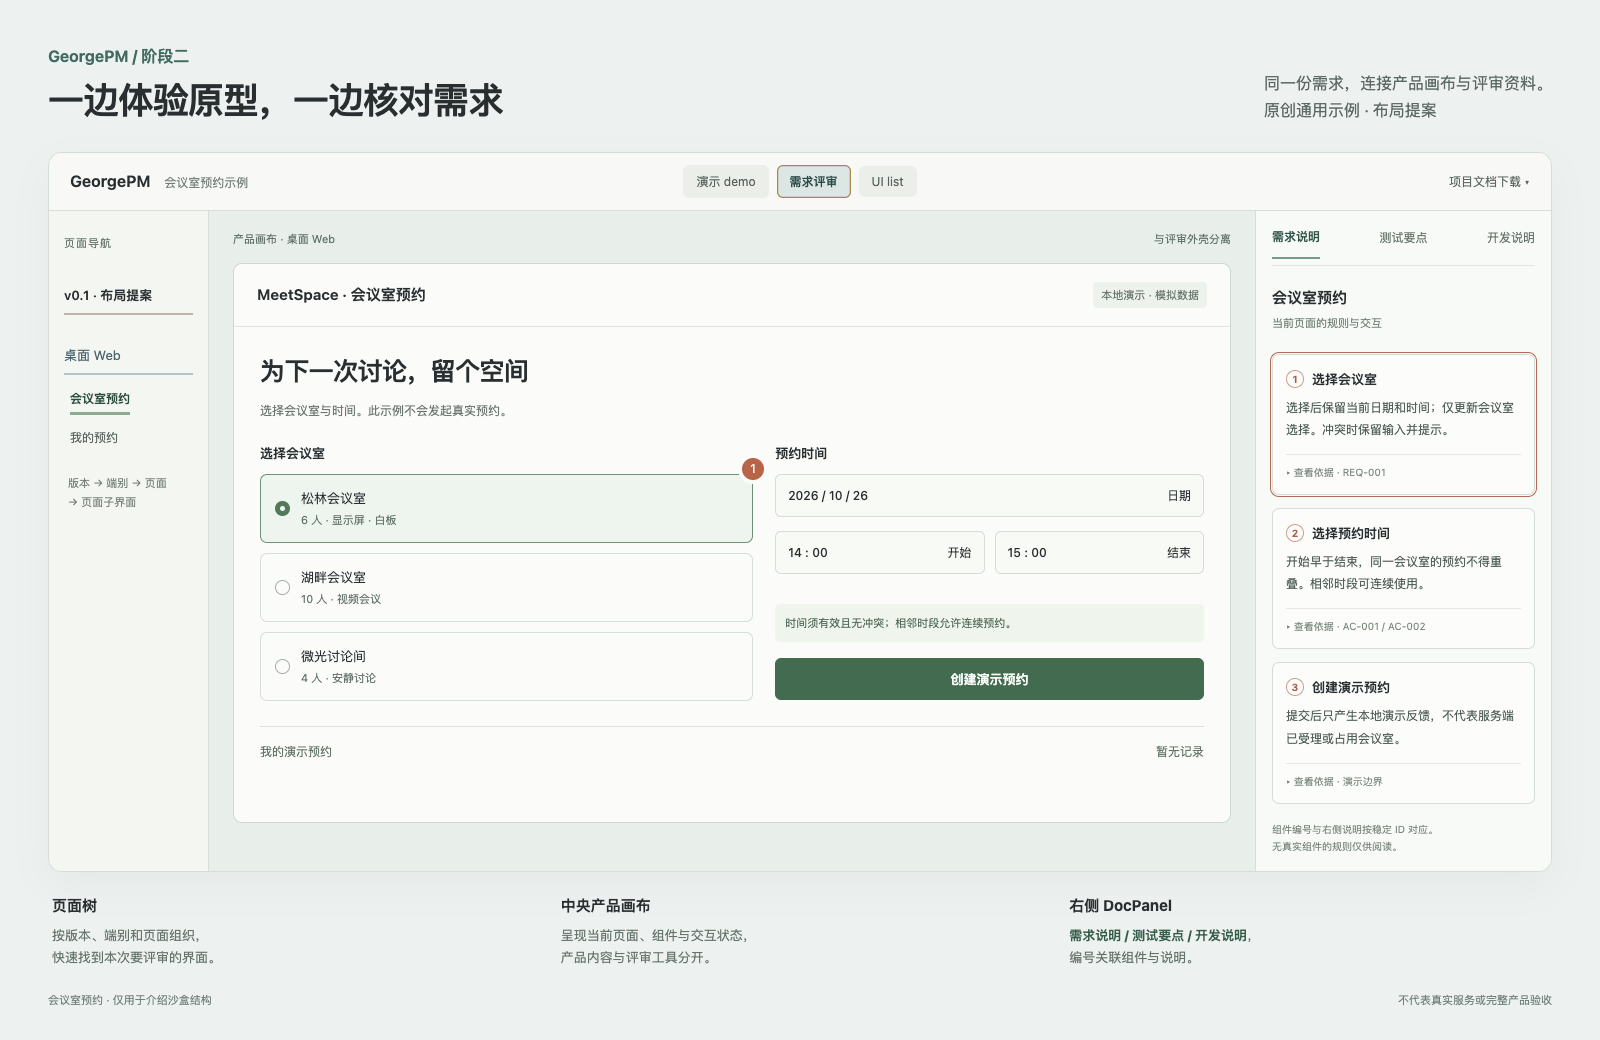
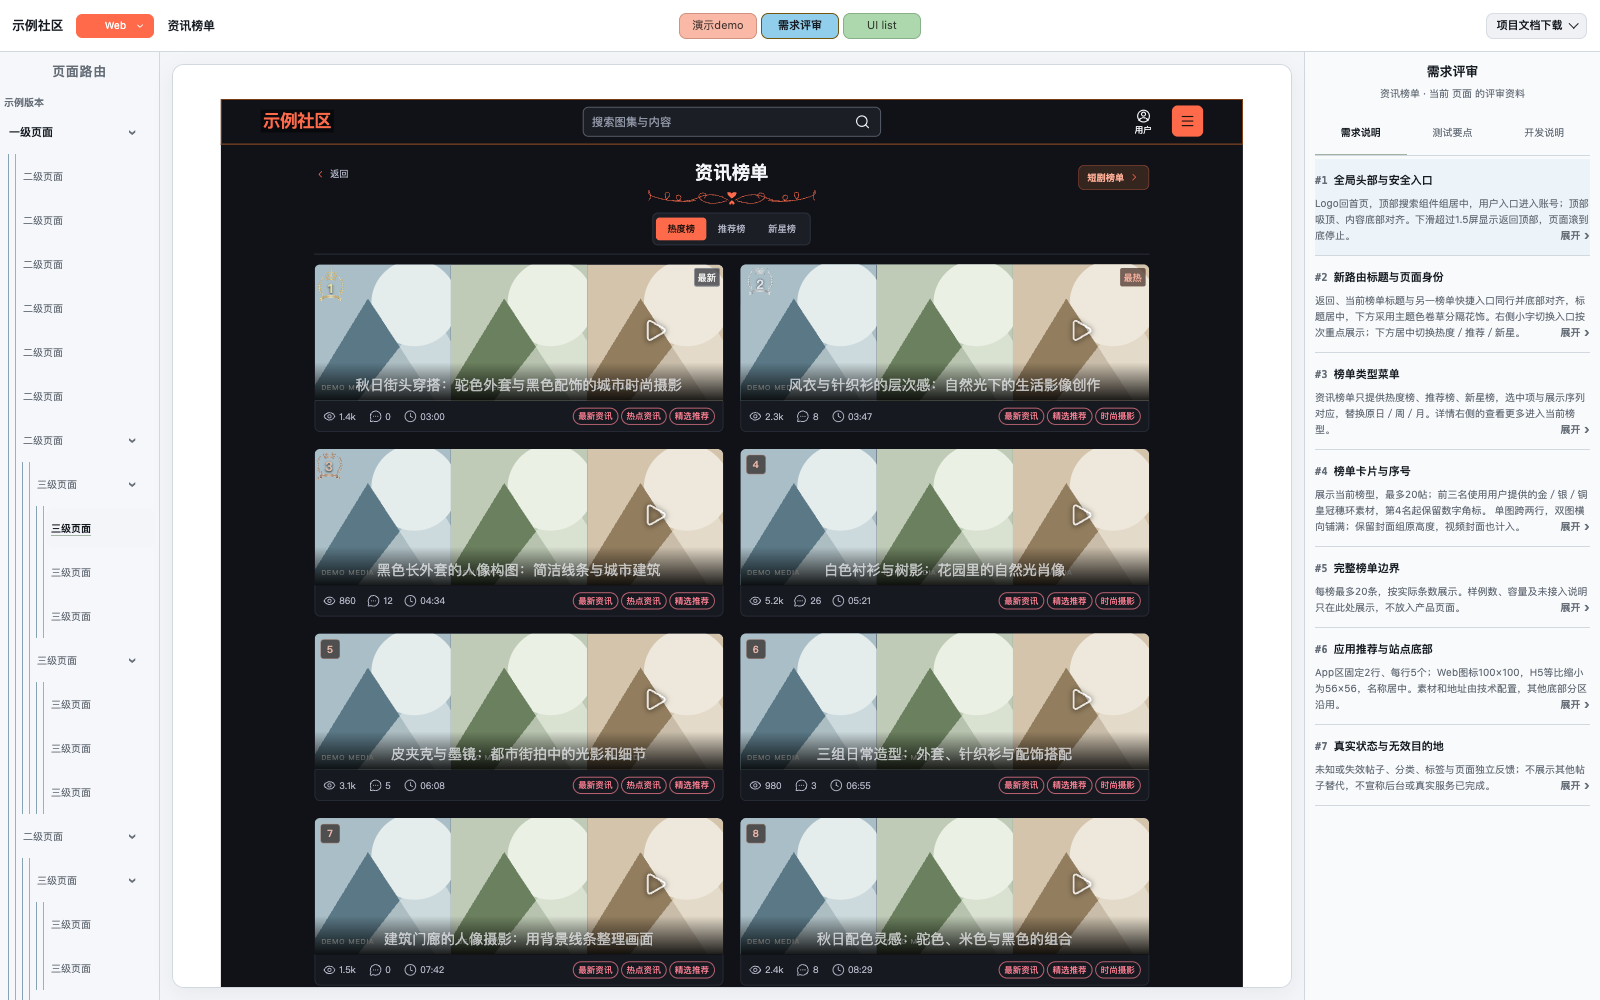
docs: use real sanitized ranking screenshot

diff --git a/VALIDATION.md b/VALIDATION.md
@@ -14,8 +14,16 @@
 
 验证器没有联网、安装或自动上传行为；仅匹配部分已知风险，不是完整安全证明。本文不代表 GitHub 发布成功，远程状态以真实仓库为准。
 
-## 介绍配图补充 · 2026-10-24
+## 介绍配图补充 · 2026-10-24（首轮记录）
 
 README 增加两张 1600 × 1040 的原创布局示意 PNG：阶段二沙盒分屏、线框扩展分支。图片来自介绍页的实际浏览器渲染，页面无横向溢出、无页面脚本错误；只检查了示意排版及一个明确标注的本地演示反馈，不代表完整预约应用或宿主安装验收。
 
 独立只读查看两张实际 PNG 与介绍文案，发现的备注箭头共线问题已调整并复核关闭。图和文案明确线框为扩展路线，未随 v0.1.0 捆绑独立转换器。本轮只更新 GitHub 介绍文档与配图；Skill、插件版本及 v0.1.0 Release 保持原版。
+
+## 真实排行榜截图替换 · 2026-10-24（当前）
+
+第一张沙盒图已替换为作者 2026-10-23 正式原型（摘要 d840aa23）排行榜页的真实浏览器截图，1600 × 1000，无弹窗。只在临时浏览器 DOM 替换品牌、业务称呼和媒体；左侧具体路由按原嵌套层级匿名为一级/二级/三级页面，保留层级线、缩进和选中状态。正式原型源文件 SHA-256 保持不变。
+
+截图前后 8 个关键外壳/画布矩形偏差为 0，对比的背景色、文字色、字号和圆角一致；无页面脚本错误或外站请求。独立只读对比原始与脱敏 Web 图片，并复核最终匿名路由，未发现剩余敏感品牌、人物媒体、联系信息或新增裁切/重叠。该检查限截图真实来源、脱敏和布局，不能作为公开插件包宿主安装或生产业务验收。
+
+第二张线框图仍为原创布局示意，明确保留该身份，未冒称最新真实线框截图。本轮没有修改 Skill、插件清单、版本或既有 Release。
